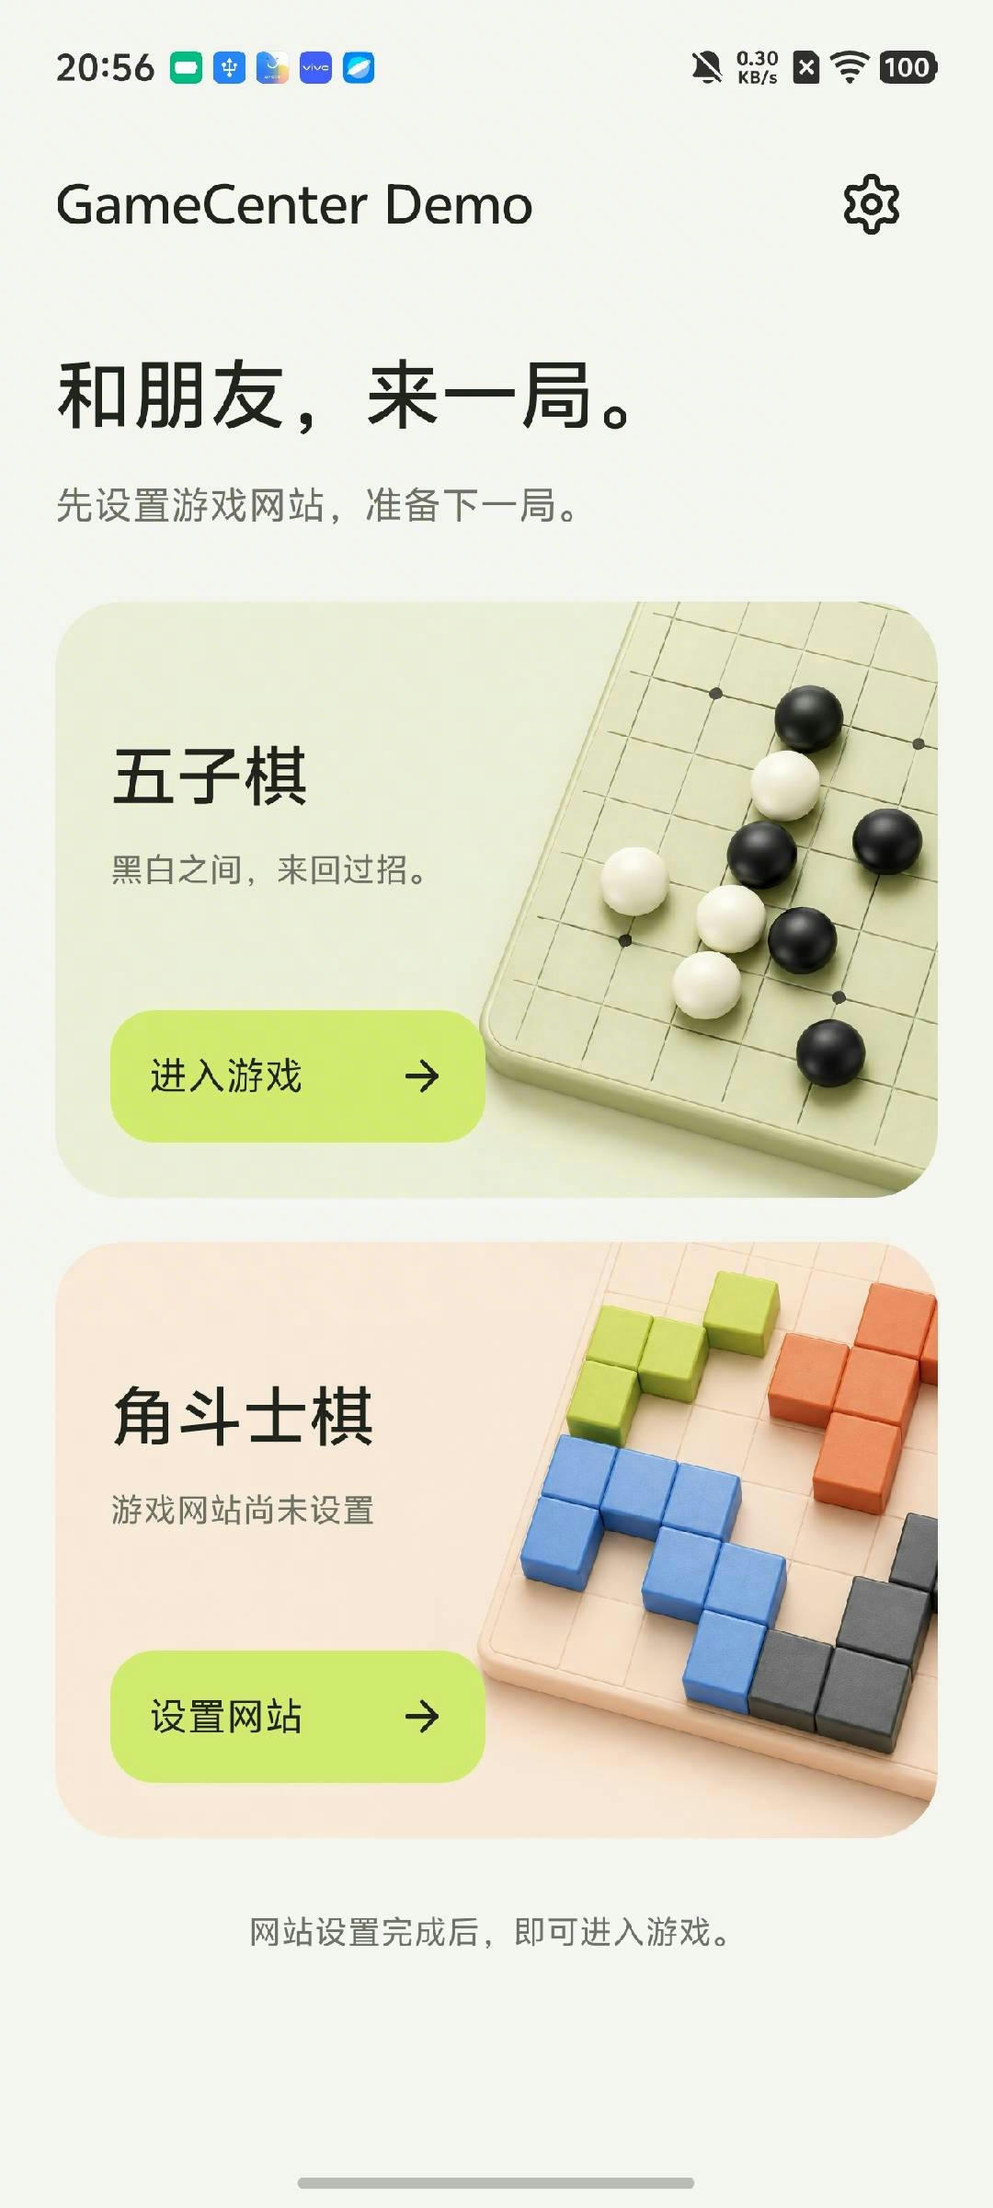
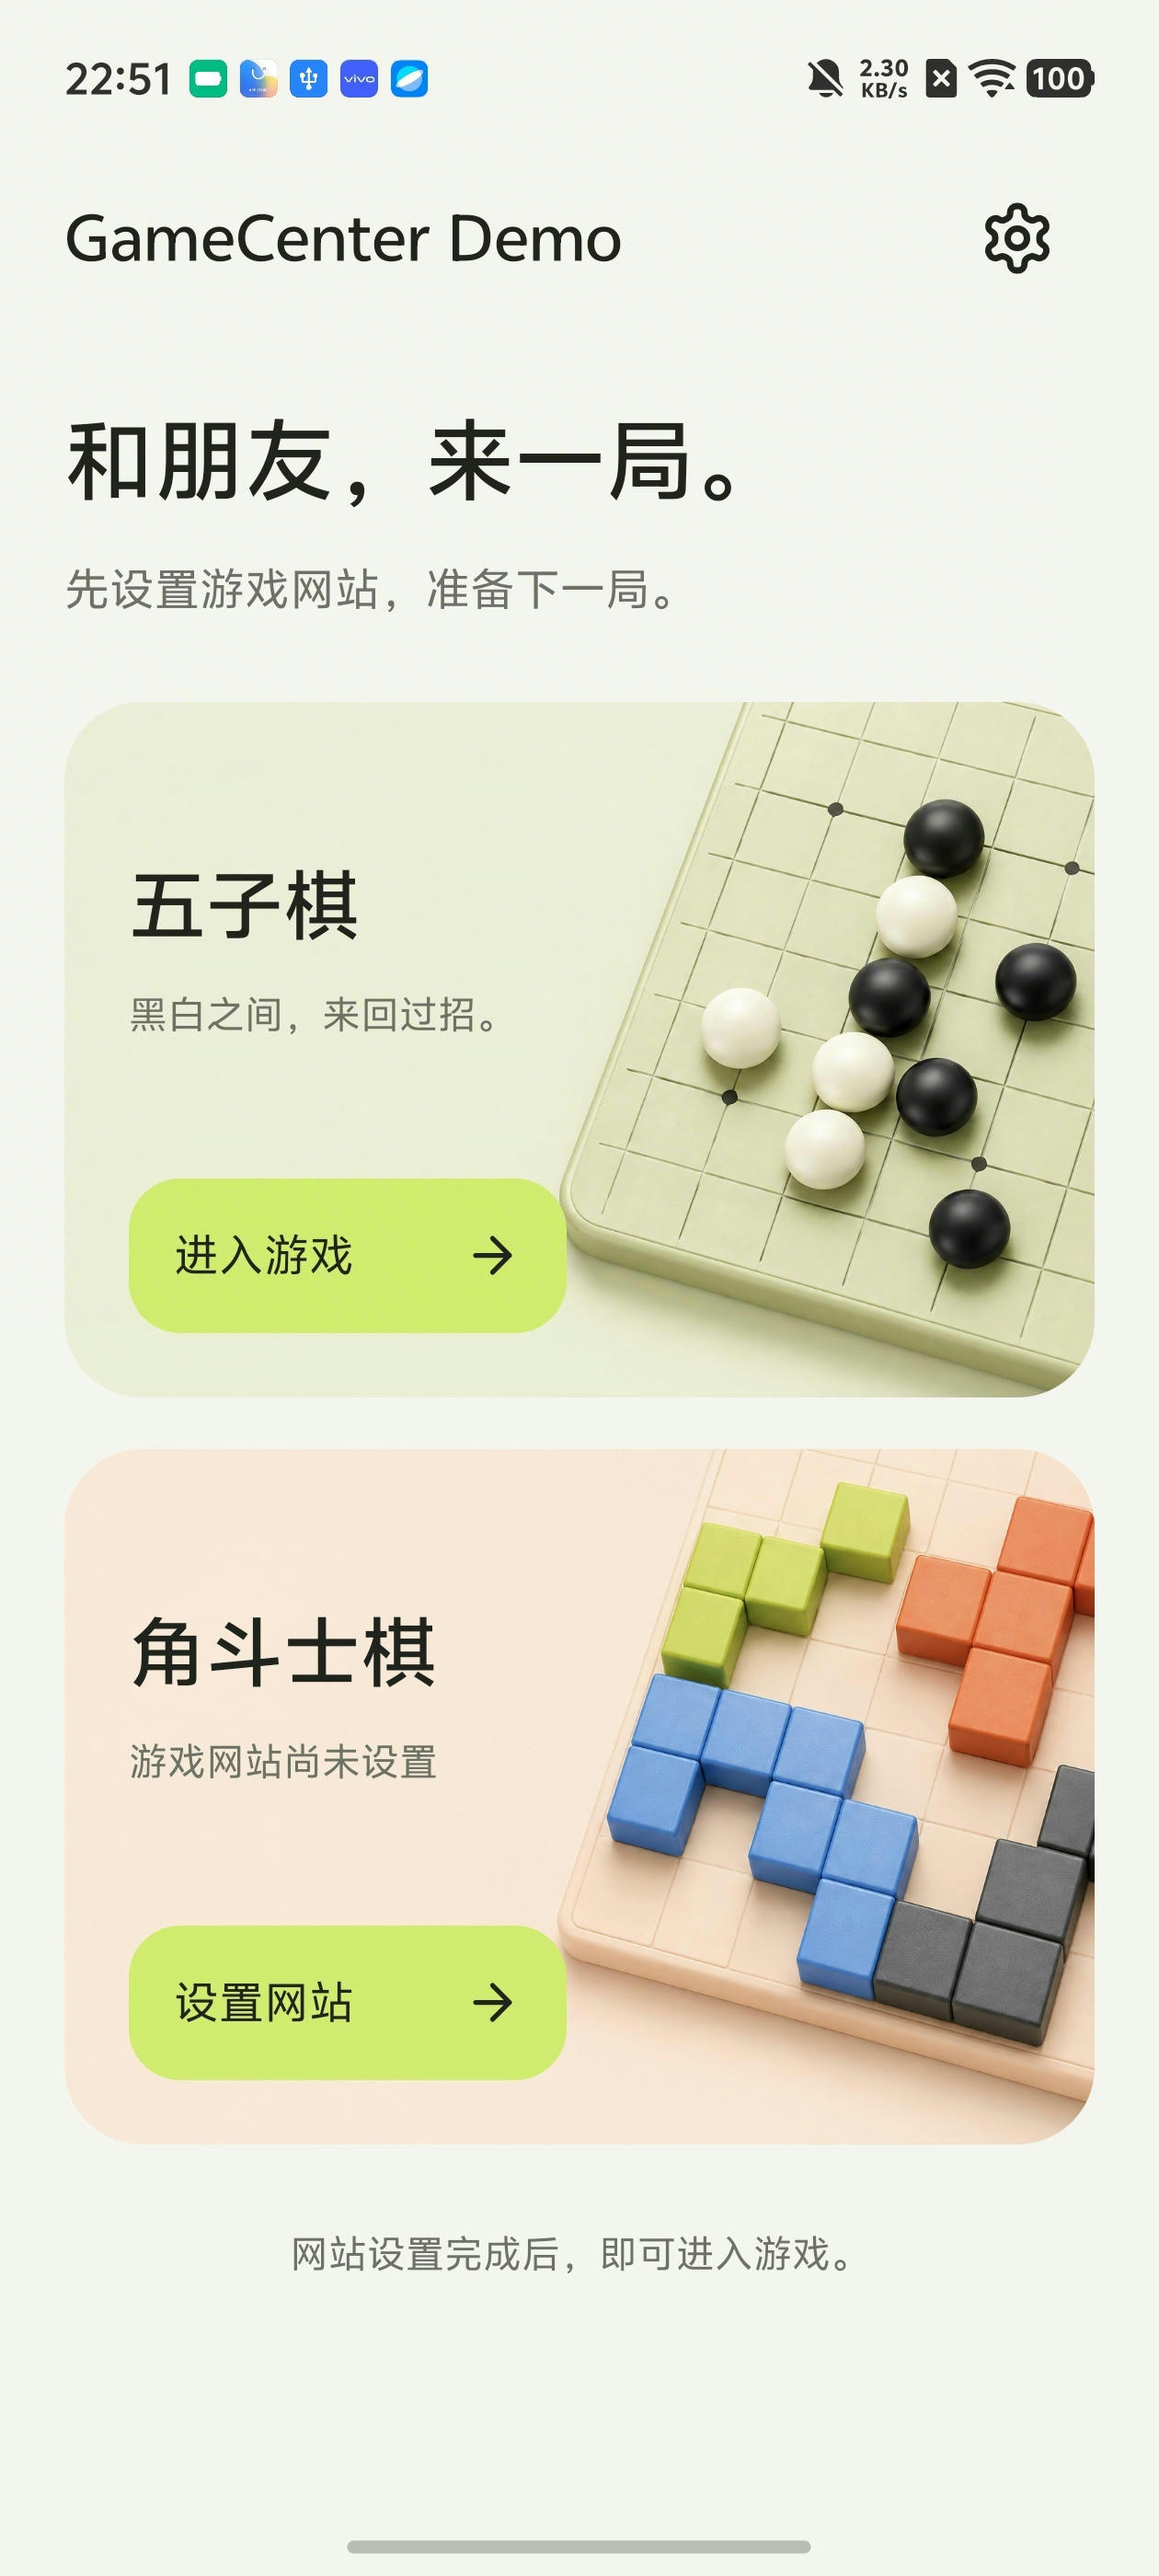
Refresh README screenshot and constrain display width

diff --git a/README.md b/README.md
@@ -23,7 +23,7 @@
 
 Demo 大厅（五子棋已进入入口、角斗士棋尚未配置）：
 
-![GameCenter Demo 大厅截图](docs/images/gamecenter-demo-home.png)
+<img src="docs/images/gamecenter-demo-home.png" alt="GameCenter Demo 大厅截图" width="320" />
 
 ## 快速开始
 
